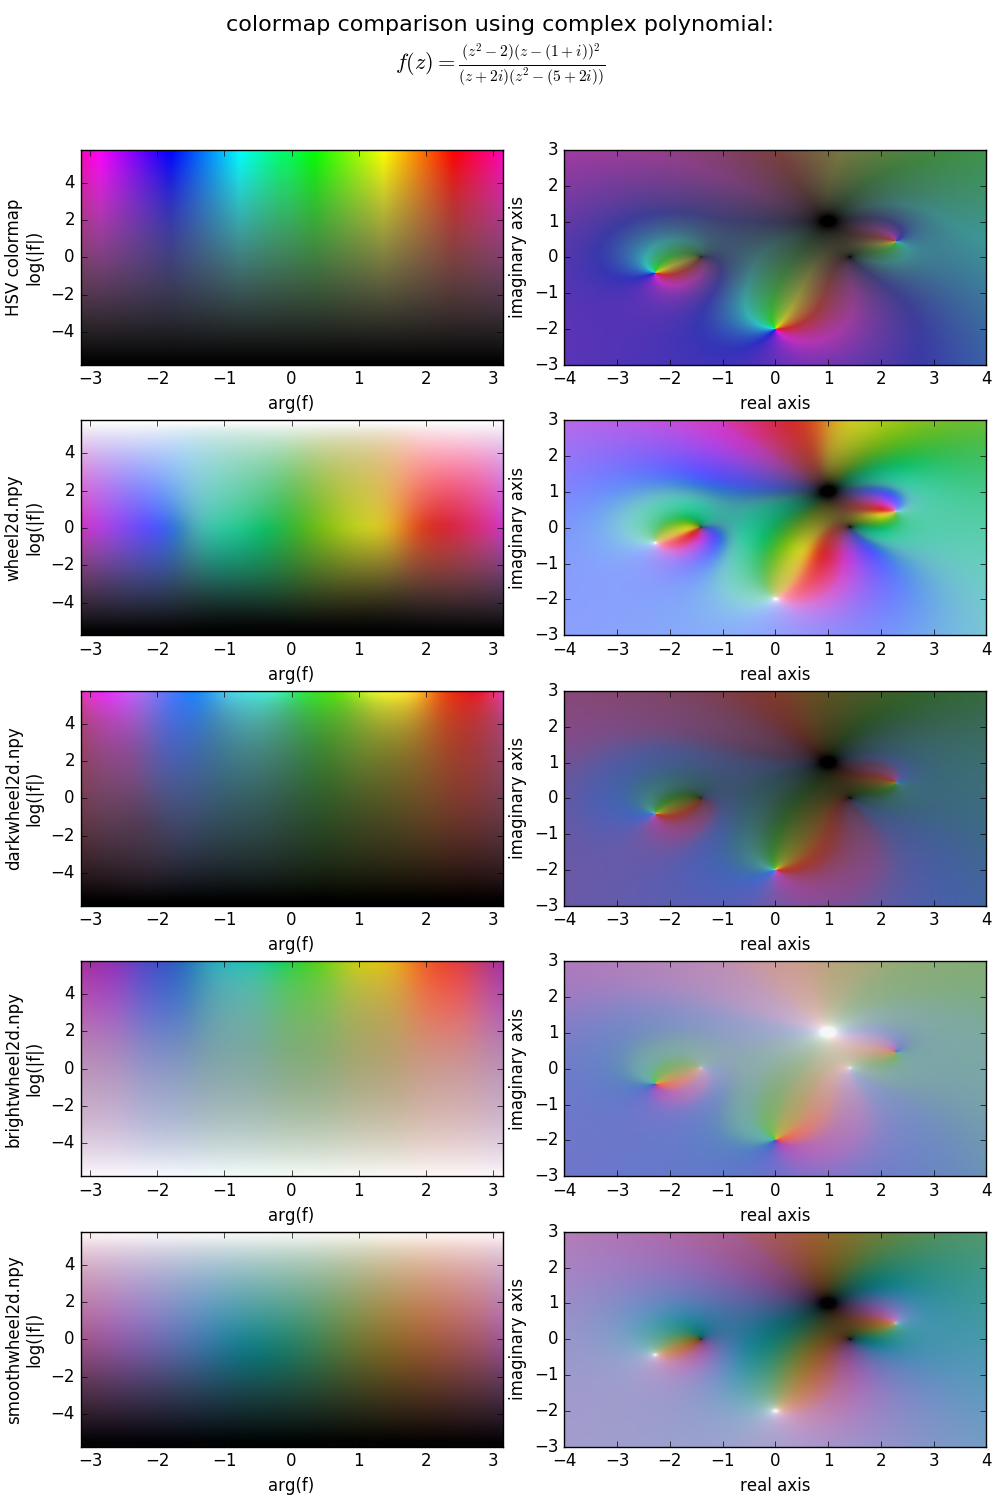
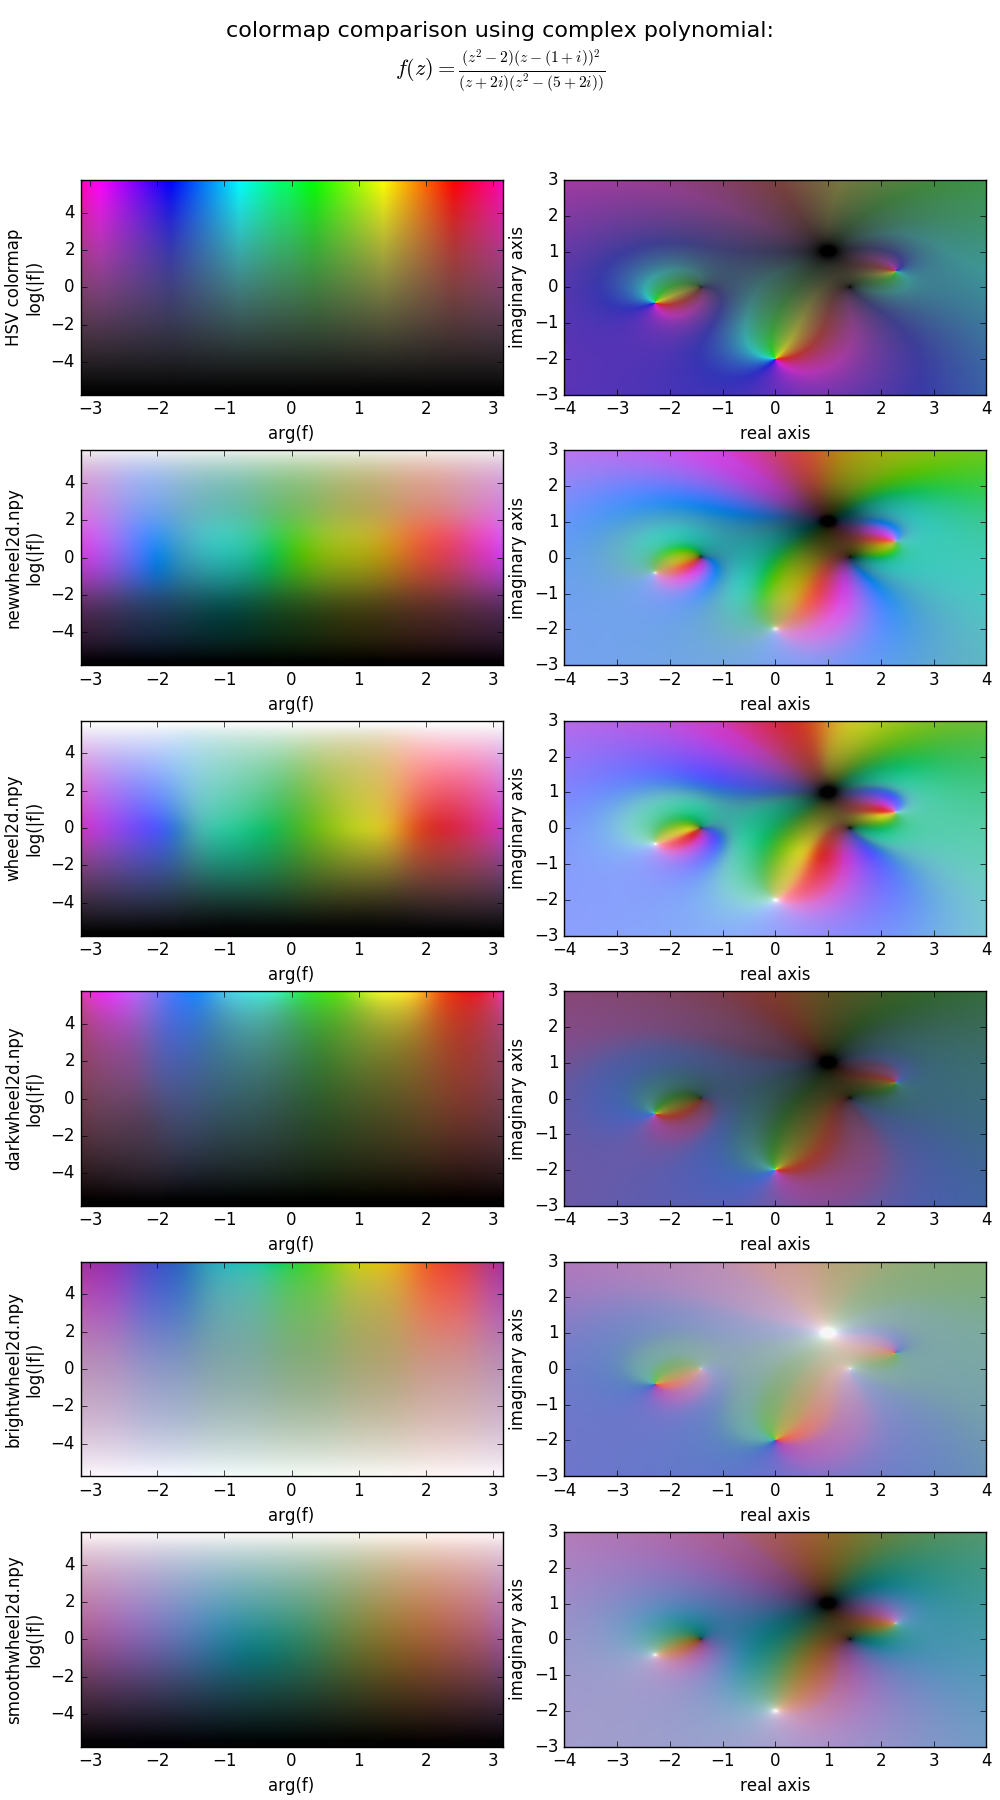
new colormap

diff --git a/plot_function.py b/plot_function.py
@@ -26,8 +26,7 @@ def main():
     complex_function = (zgrid ** 2 - 2.) * (zgrid - 1 - 1j) ** 2 /\
                        (zgrid + 2j) / (zgrid**2 - 5 - 2j)
     # with branch cut:
-    # complex_function = (zgrid ** 2 - 1.) * (zgrid - 2 - 1j) ** 2 \
-    #                   / np.arcsin(zgrid ** 2 + 2. + 2.j)
+    #complex_function = np.arcsin(zgrid)
 
     data = np.empty((2, npts_imag, npts_real))
     data[0] = np.log(np.abs(complex_function))

diff --git a/doc/gallery.md b/doc/gallery.md
@@ -18,8 +18,11 @@ remain round and don't become star-shaped or shifted towards darker colors
 like blue and red. At 0.5, the color surfaces can vary a in lightness to make
 use of strongy saturated colors.
 
-Wheel2d is a 2d colormap that goes from black to white with maximum saturated
+Newwheel2d is a 2d colormap that goes from black to white with maximum saturated
 colors around 0.5.
+![newwheel2d](../images/newwheel2d.png)
+
+Wheel2d is similar to Newwheel but saturates the colors a bit more
 ![wheel2d](../images/wheel2d.png)
 
 Darkwheel2d is a 2d colormap that goes from black to light and saturated colors.
